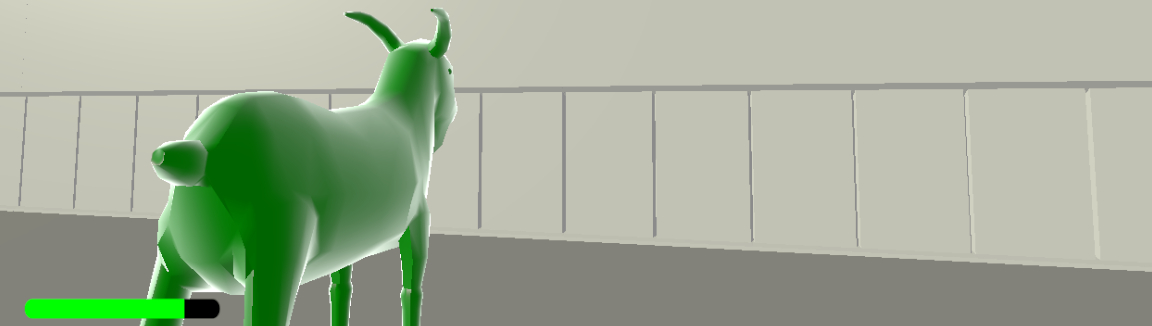
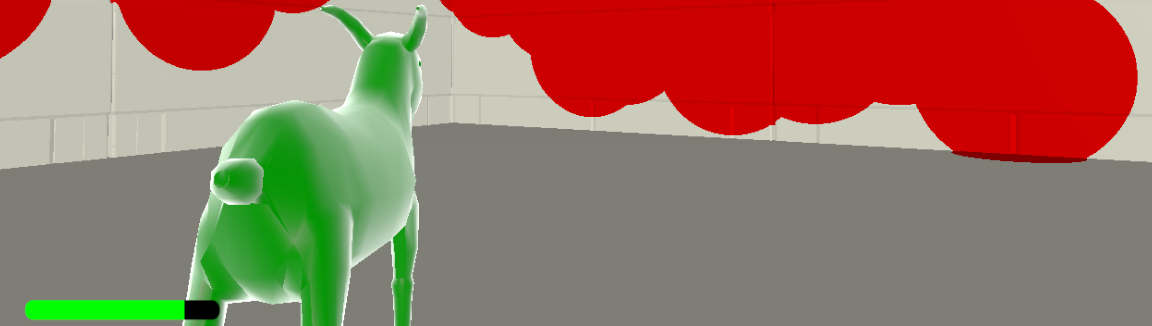
New page paint update
New video and description of paint system

diff --git a/generic3.html b/generic3.html
@@ -56,12 +56,16 @@
 							<span class="image main"><img src="images/pic17.jpg" alt="" /></span>
 							<p>I have worked on the implementation of physics middleware ReactPhysics3D to replace the physics code of the last game project, and the development of an improved character and camera control system.<br />
 							This greatly improves user experience through changes to movement, whilst the movement of the player and camera are interpolated to allow for smooth movement. It can be found in the video below.</p>
-							<p>The game is also being developed with networking code to which I am contributing, to allow for competitive play or cooperative against AI-controlled enemies.<br />
-							Key to all gameplay is the terrain painting system, currently underway and soon to be displayed on this page. With this players paint the environment to increase their team's score.</p>
+							<p>The game is also being developed with networking code to which I am contributing, to allow for competitive play or cooperative against AI-controlled enemies.</p>
+							<p>Key to all gameplay is the terrain painting system, for which a demo of the initial system can be found below. With this, players will paint the environment to increase their team's score.<br />
+							This system saves the collision positions of projectiles, and paints the terrain through using the fragment shader. A more detailed system is in development, to be shown when complete.</p>
 							<p>Made using C++, in Visual Studio 2022.</p>
 							<p>Videos may be seen below.</p>
 							<iframe width="500" height="500"
 								src="https://www.youtube.com/embed/gS362f6TDgg">
+							</iframe>
+							<iframe width="500" height="500"
+								src="https://www.youtube.com/embed/91DgHq8saqM">
 							</iframe>
 						</div>
 					</div>
